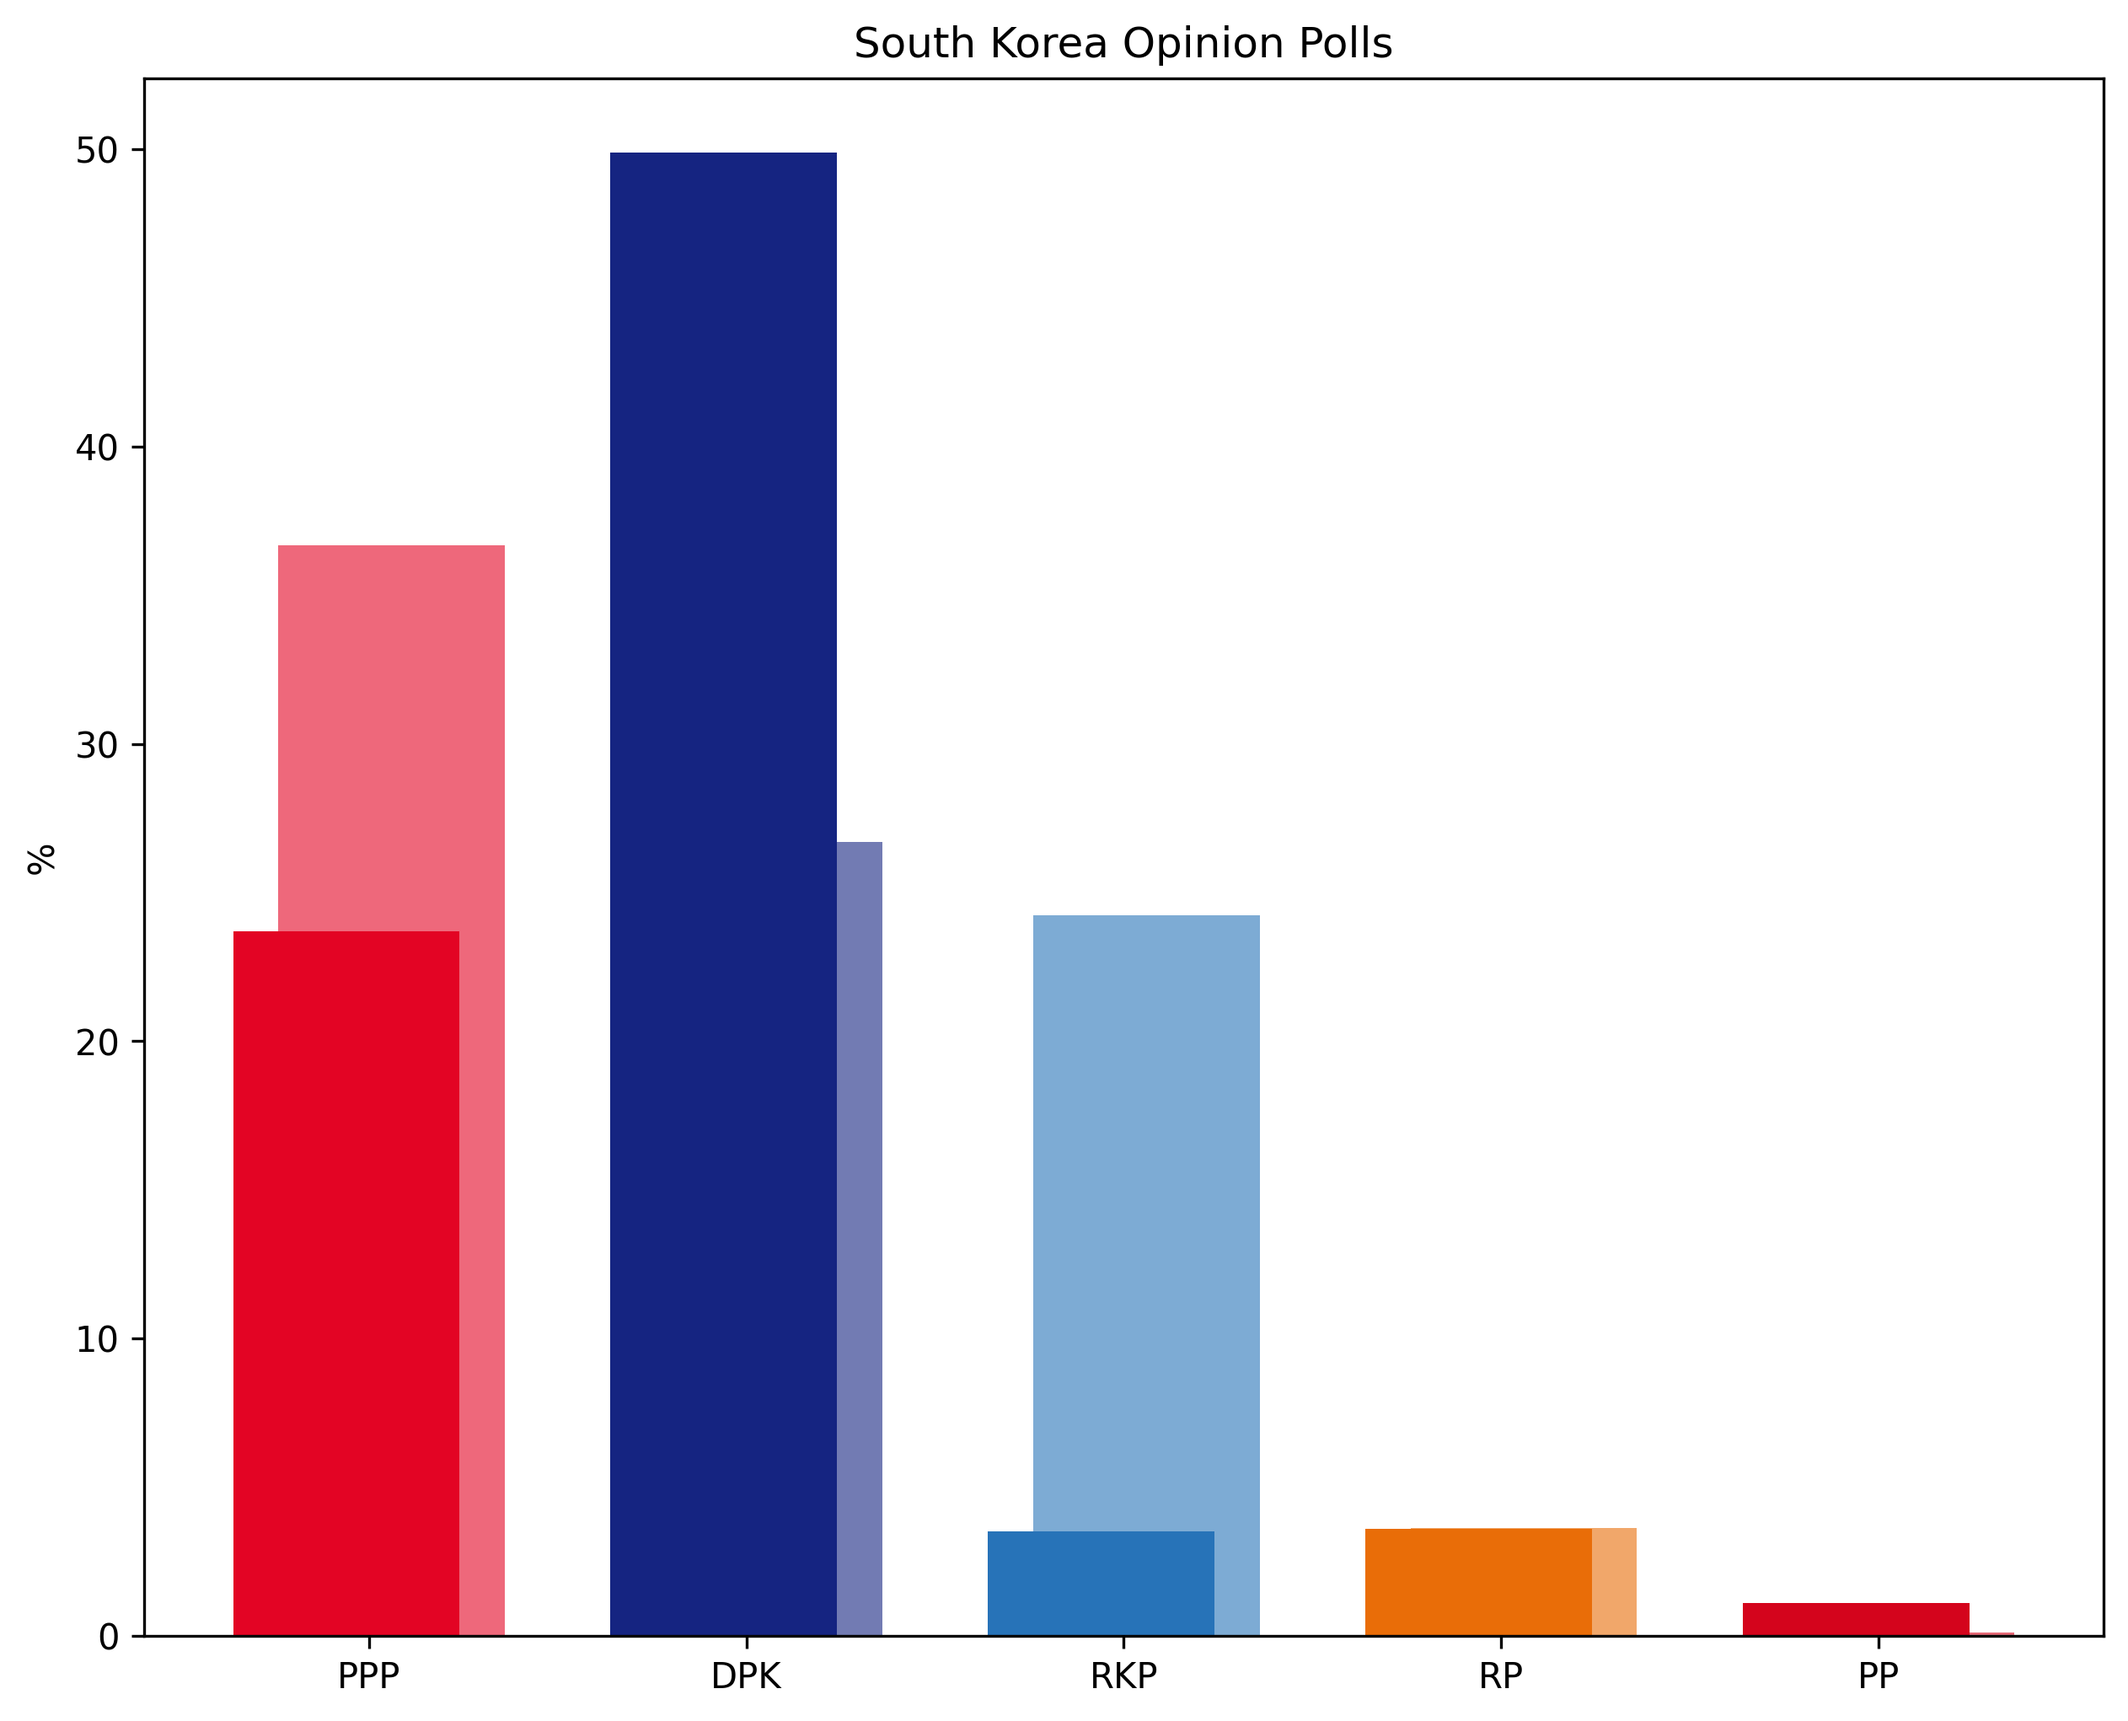
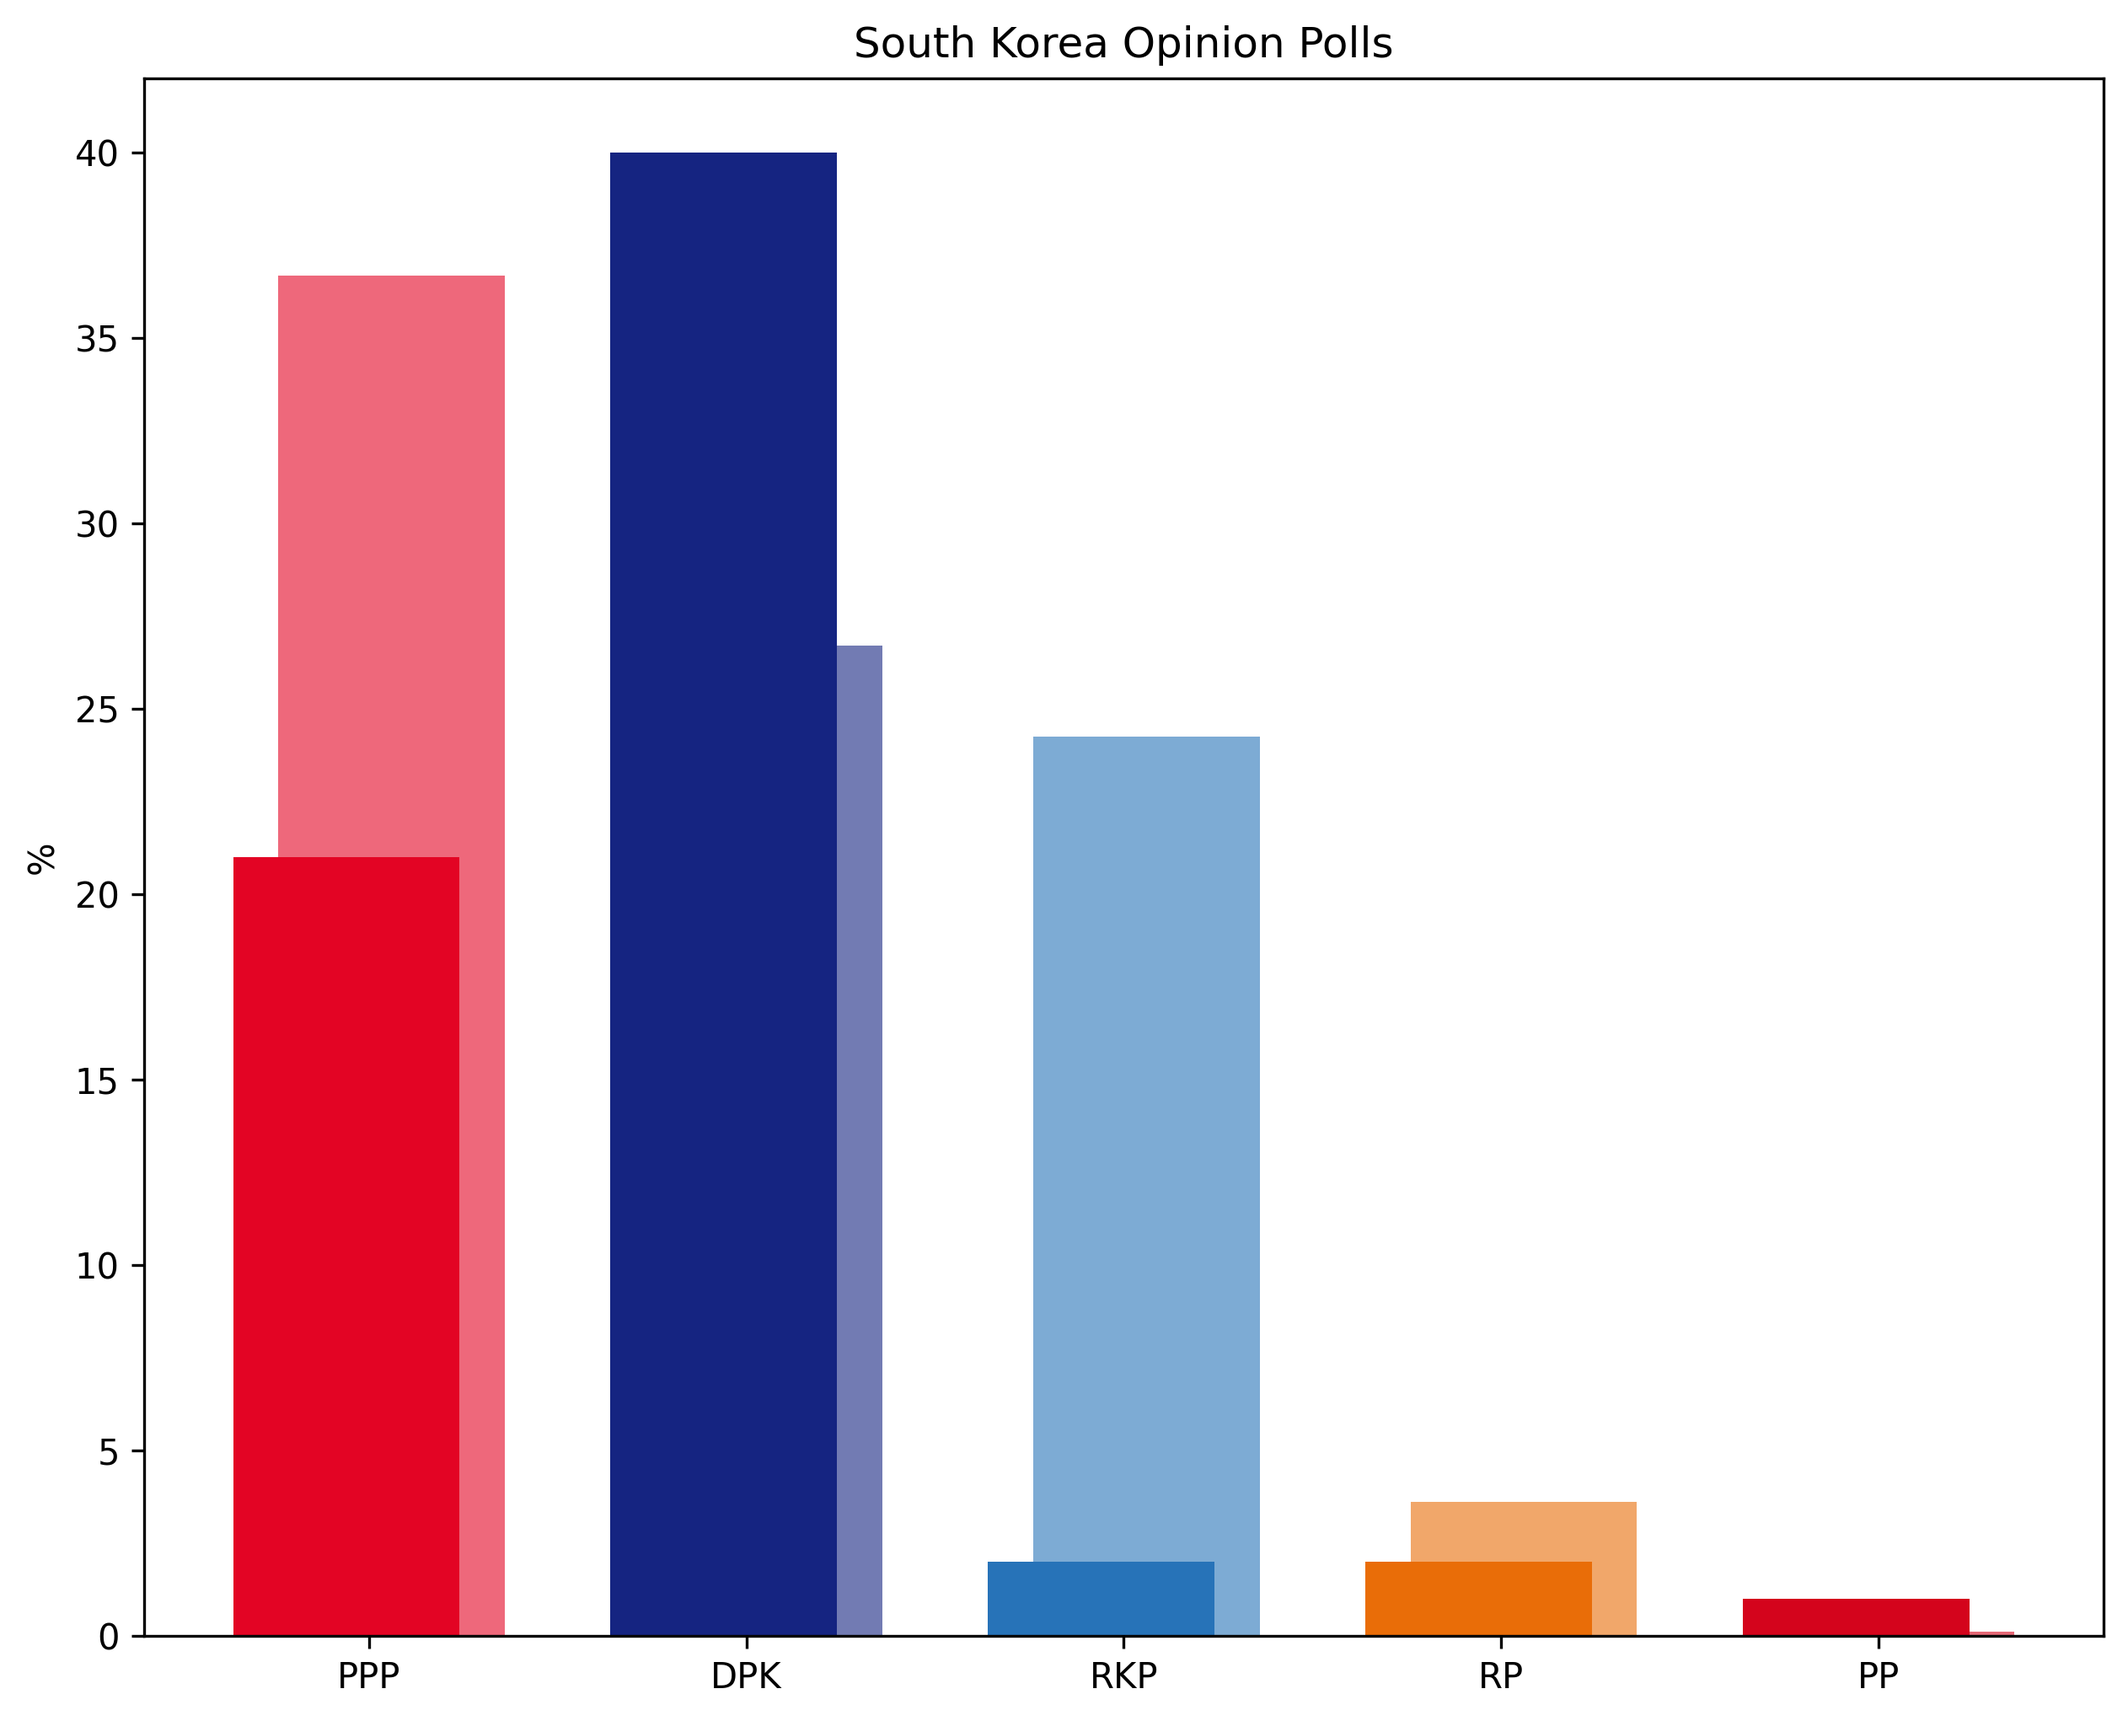
Updated South Korea

diff --git a/Asia/EastAsia/SouthKorea.py b/Asia/EastAsia/SouthKorea.py
@@ -2,7 +2,7 @@ import matplotlib.pyplot as plt
 import numpy as np
 
 parties = ['PPP', 'DPK', 'RKP', 'RP', 'PP']
-polling_2025 = [23.7, 49.9, 3.5, 3.6, 1.1]
+polling_2026 = [21.0, 40.0, 2.0, 2.0, 1.0]
 election_2024 = [36.67, 26.70, 24.25, 3.62, 0.10]
 
 poll_colors = ['#e30424', '#152481', '#2773b8', '#e96d08', '#d4041c']
@@ -13,7 +13,7 @@ width = 0.6
 
 fig, ax = plt.subplots(figsize=(10, 8))
 ax.bar(x + width/10, election_2024, width=width, color=election_colors, label='2024 Election')
-ax.bar(x - width/10, polling_2025, width=width, color=poll_colors, label='August 2025 Polling')
+ax.bar(x - width/10, polling_2026, width=width, color=poll_colors, label='August 2026 Polling')
 
 ax.set_ylabel('%')
 ax.set_xticks(x)
